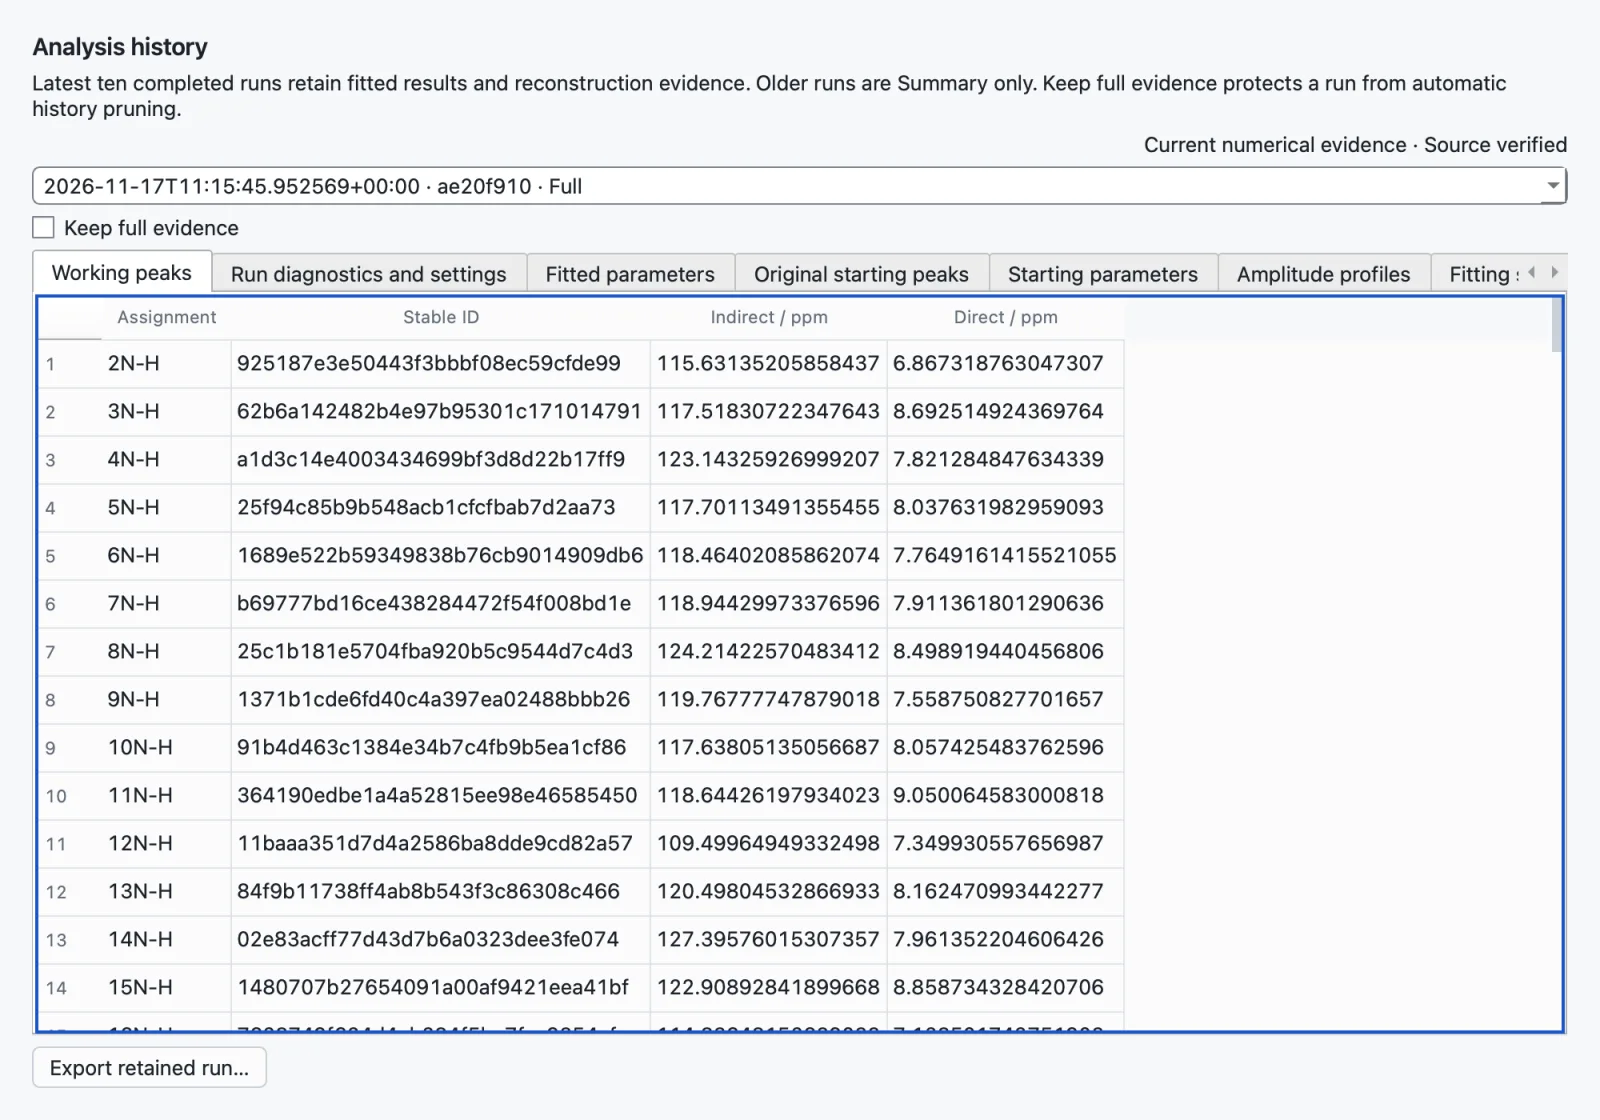
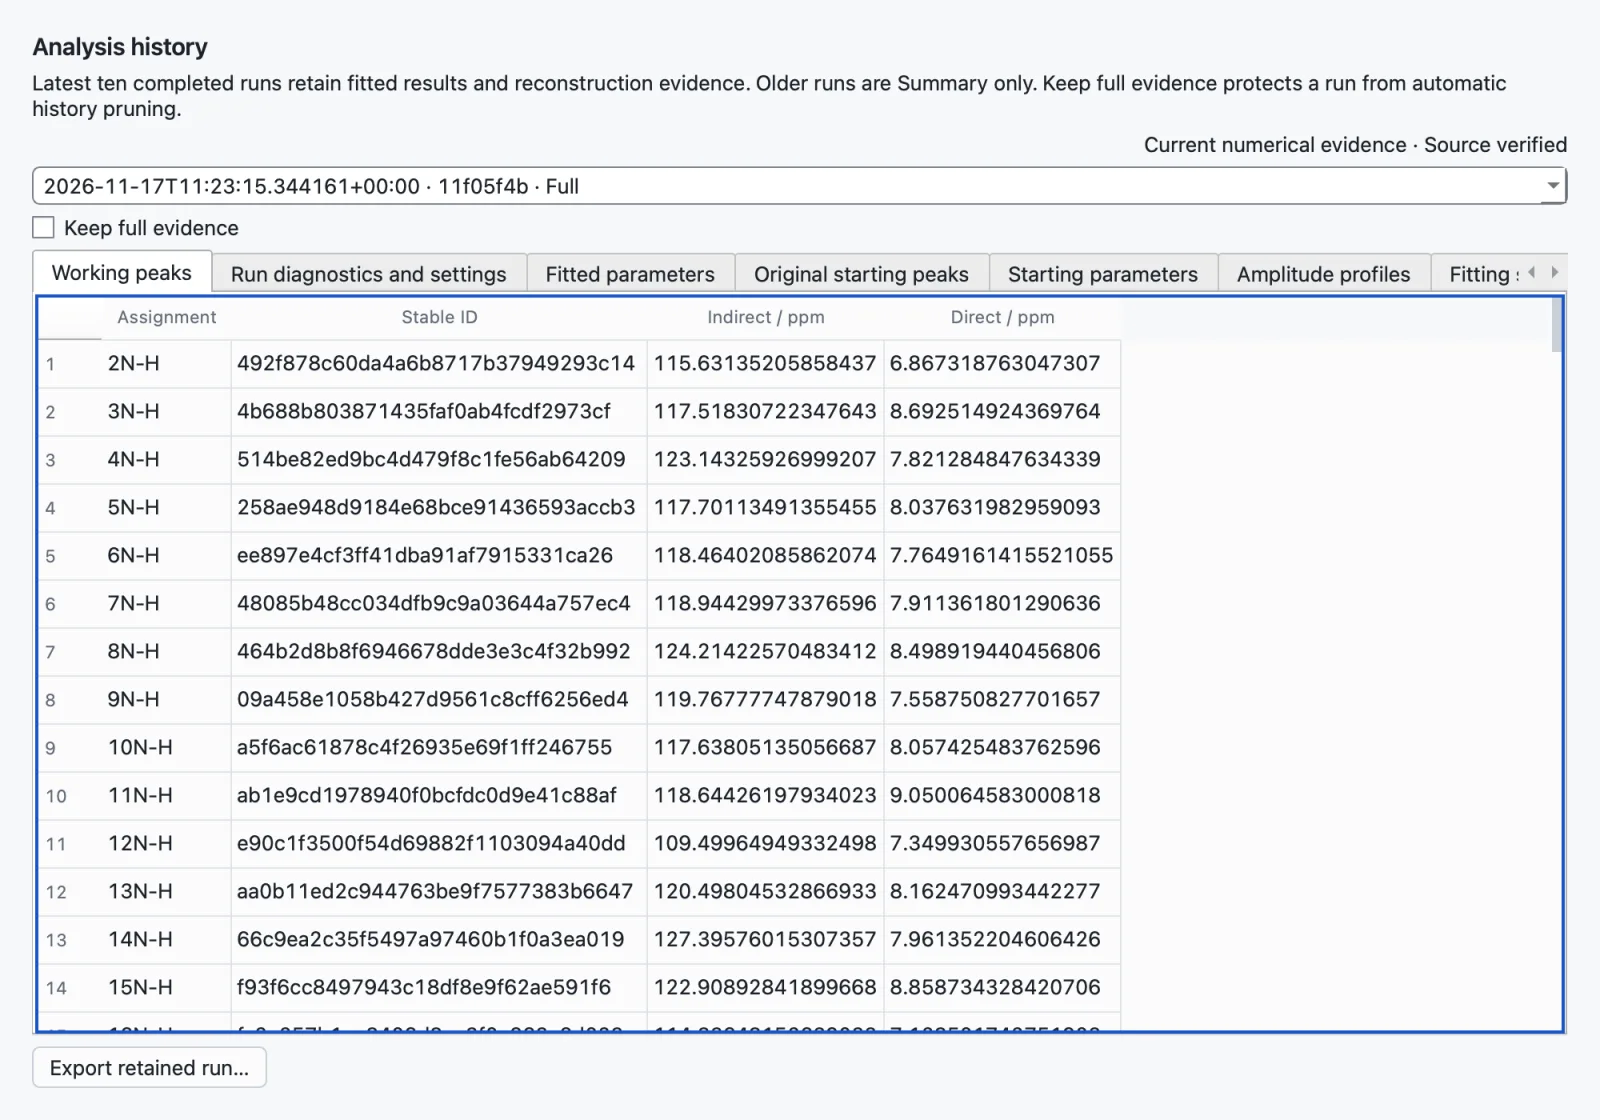
Review fixes: the capture tool writes WebP through QPixmap and re-records
QImage.save rejects the bytes format its stubs ask for, so the tool now saves
the grabbed QPixmap. Page heights and the setup position wait for a steady
layout, the dialog poll stops when no dialog opened, the watchdog is cancelled,
and every figure records its clipped labels. M13 keeps the label of a one-line
value; the record adds the dataset size, the screen and the type scale, so the
note's prose quotes no number outside it. Re-recorded natively at 6a5dc18 with
this tool; every measurement matches the first record except run IDs.

The note adds the review's small findings it had dropped, and
docs/development.md points to the tool.

diff --git a/tools/capture_gui_review.py b/tools/capture_gui_review.py
@@ -22,9 +22,11 @@ the note that quotes it.
 """
 
 import argparse
+import faulthandler
 import json
 import platform
 import subprocess
+from dataclasses import asdict
 from pathlib import Path
 from typing import Any
 
@@ -37,6 +39,7 @@ from validate_gui_layout import (
     ROOT,
     Session,
     arm_watchdog,
+    clipped_labels,
     peak_page_measures,
     steady,
     window_record,
@@ -44,11 +47,12 @@ from validate_gui_layout import (
 
 from peakfit.gui.editor.numerical import NumericalReview
 from peakfit.gui.failures import install_log
+from peakfit.gui.theme import type_scale
 
 SIZE = "1280x800"
 SIZES = ("1160x720", "1280x800", "1440x900", "1920x1080")
 PEAK = "53N-H"  # a two-member cluster's peak: the reviewed peak page
-MOVED = "22N-H"  # moved to make the run Outdated, then refitted
+MOVED = CLUSTER  # the four-member cluster's peak, moved to make the run Outdated
 MOVE_PPM = 0.02  # in the direct (¹H) dimension
 MAX_WIDTH = 1600  # px; wider grabs are downscaled, keeping the aspect ratio
 QUALITY = 82  # WebP
@@ -62,9 +66,9 @@ FIGURES = (
     "dialog-display.webp",
     "overview.webp",
     "page-analysis-unexplained.webp",
-    "peak-53N-H.webp",
-    "page-peak-53N-H.webp",
-    "page-cluster-22N-H.webp",
+    f"peak-{PEAK}.webp",
+    f"page-peak-{PEAK}.webp",
+    f"page-cluster-{CLUSTER}.webp",
     "focus-overlay.webp",
     "focus-residual-dark.webp",
     "profiles.webp",
@@ -73,6 +77,12 @@ FIGURES = (
     "outdated-peak.webp",
     "page-analysis-refit.webp",
 )
+
+
+def window_size(size: str) -> tuple[int, int]:
+    """Width and height of a ``WxH`` size."""
+    width, height = (int(v) for v in size.split("x"))
+    return width, height
 
 
 def git_state() -> dict[str, object]:
@@ -135,33 +145,37 @@ class ReviewSession(Session):
         self._save(name, widget or self.window)
 
     def _save(self, name: str, widget: QtWidgets.QWidget) -> None:
-        image = widget.grab().toImage()
-        if image.width() > MAX_WIDTH:
+        image = widget.grab()
+        if image.width() > MAX_WIDTH:  # device pixels
             image = image.scaledToWidth(
                 MAX_WIDTH, QtCore.Qt.TransformationMode.SmoothTransformation
             )
         file = f"{name}.webp"
-        if not image.save(str(self.output / file), b"WEBP", QUALITY):
+        if not image.save(str(self.output / file), "WEBP", QUALITY):
             raise RuntimeError(f"Qt could not write {file}; is the WebP image plugin installed?")
         self.figures[file] = {
             "window": window_record(self.window),
             "widget": [widget.width(), widget.height()],
             "image": [image.width(), image.height()],
+            "clipped": clipped_labels(self.window),
         }
         arm_watchdog(self.stall)
 
     def page(self, name: str) -> int:
         """Save the inspector's whole scrolling page; its height in logical px."""
-        settle(300)
         body = self.w.panel.widget()
+        height = steady(body.height)  # deferred rows can still be growing the page
         self.figure(name, body)
-        return body.height()
+        return height
 
     def dialog(self, name: str, show, ready=lambda _dialog: True) -> list[int]:
         """Open a modal dialog with ``show``, save it once ``ready``, close it; its size."""
         size: list[int] = []
+        returned = False
 
         def poll() -> None:
+            if returned:  # ``show`` came back without a modal dialog
+                return
             dialog = QtWidgets.QApplication.activeModalWidget()
             if dialog is None or not ready(dialog):
                 QtCore.QTimer.singleShot(50, poll)
@@ -176,16 +190,17 @@ class ReviewSession(Session):
 
         QtCore.QTimer.singleShot(0, poll)
         show()
+        returned = True
         if not size:
             raise RuntimeError(f"No modal dialog was captured for {name}")
         return size
 
     def setup_top(self) -> int | None:
         """Where the fit setup starts on the analysis page, in inspector content px."""
-        block = self.w.panel.setup_block
+        block, body = self.w.panel.setup_block, self.w.panel.widget()
         if not block.isVisible():
             return None
-        return block.mapTo(self.w.panel.widget(), QtCore.QPoint(0, 0)).y()
+        return steady(lambda: block.mapTo(body, QtCore.QPoint(0, 0)).y())
 
     def noise_lines(self) -> list[int]:
         """Lines of each visible inspector label that contains the noise-check finding.
@@ -198,7 +213,7 @@ class ReviewSession(Session):
         return lines_of(self.w.panel.widget(), finding[1:60]) if finding else []
 
     def run_line(self) -> str:
-        """The toolbar's run summary."""
+        """The toolbar's run summary (the separate "Modified" label is not part of it)."""
         return self.w.summary.text()
 
 
@@ -218,6 +233,10 @@ def before_fit(s: ReviewSession, record: dict[str, Any]) -> None:
     w.show_fit_setup()
     wait_until(lambda: w.fitting.prepared is not None, timeout=120)
     s.figure("fit-setup")
+    record["dataset_size"] = {
+        "peaks": len(w.peaks),
+        "planes": int(w.dataset.spectra.data.shape[0]),
+    }
     record["preparation"] = w.panel.setup.preparation.text()
     w.panel.setup.advanced_toggle.setChecked(True)
     s.page("page-fit-setup")
@@ -322,8 +341,7 @@ def window_sizes(s: ReviewSession, record: dict[str, Any]) -> None:
     """The overview at each window size; the 1160×720 one is a figure."""
     w, sizes = s.w, []
     for size in SIZES:
-        width, height = (int(v) for v in size.split("x"))
-        s.window.resize(width, height)
+        s.window.resize(*window_size(size))
         settle(600)
         w.show_analysis_page()
         if size == "1160x720":
@@ -337,8 +355,9 @@ def window_sizes(s: ReviewSession, record: dict[str, Any]) -> None:
             }
         )
     record["sizes"] = sizes
-    width, height = (int(v) for v in SIZE.split("x"))
-    s.window.resize(width, height)
+    screen = s.window.screen().size()
+    record["screen"] = [screen.width(), screen.height()]
+    s.window.resize(*window_size(SIZE))
     settle(600)
 
 
@@ -371,8 +390,7 @@ def run(output: Path) -> dict[str, Any]:
     output.mkdir(parents=True, exist_ok=True)
     install_log(output / "peakfit.log")  # as launch does
     s = ReviewSession(output)
-    width, height = (int(v) for v in SIZE.split("x"))
-    s.window.resize(width, height)
+    s.window.resize(*window_size(SIZE))
     s.window.apply_appearance("Light")
     settle(300)
     states: dict[str, Any] = {}
@@ -382,8 +400,8 @@ def run(output: Path) -> dict[str, Any]:
     after_fit(s, states)
     window_sizes(s, states)
     outdated_and_refit(s, states)
-    missing = set(FIGURES) - set(s.figures)
-    assert not missing, f"figures not written: {sorted(missing)}"
+    faulthandler.cancel_dump_traceback_later()
+    assert set(s.figures) == set(FIGURES), sorted(set(s.figures) ^ set(FIGURES))
     record = {
         "tool": "tools/capture_gui_review.py",
         **git_state(),
@@ -391,6 +409,7 @@ def run(output: Path) -> dict[str, Any]:
         "platform": platform.platform(),
         "qt_platform": QtGui.QGuiApplication.platformName(),
         "units": "Qt logical pixels unless named; image sizes are file pixels",
+        "type_scale": asdict(type_scale()),
         **states,
         "figures": {name: s.figures[name] for name in FIGURES},
     }
@@ -414,10 +433,12 @@ def table(record: dict[str, Any]) -> str:
     unexplained, refit = record["unexplained"], record["refit"]
     strongest = unexplained["strongest"]
     where = ", ".join(f"{axis} {ppm}" for axis, ppm in strongest["ppm"].items())
-    # The changed cluster's review and measures; the full list is in the record.
+    # What changed between the runs; the full list is in the record. A one-line
+    # value follows its label, which is the text before it.
+    texts = refit["changes"]
     changes = " · ".join(
-        line
-        for text in refit["changes"]
+        f"{texts[index - 1]} {line}" if index and "\n" not in text else line
+        for index, text in enumerate(texts)
         for line in text.split("\n")
         if "now reported" in line or "→" in line
     )
@@ -427,7 +448,12 @@ def table(record: dict[str, Any]) -> str:
         for s in record["sizes"]
     )
     rows = [
-        ("M1", "Preparation before the first fit", record["preparation"]),
+        (
+            "M1",
+            "Dataset; preparation before the first fit",
+            f"{record['dataset_size']['peaks']} peaks · {record['dataset_size']['planes']} "
+            f"planes; {record['preparation']}",
+        ),
         ("M2", "Failed first fit: run line", record["failure"]["run_line"]),
         ("M3", "Run line after the fit", overview["run_line"]),
         (
@@ -479,6 +505,12 @@ def table(record: dict[str, Any]) -> str:
             f"{refit['page_height']}, {refit['setup_top']} / {refit['viewport_height']} px",
         ),
         ("M15", "Window sizes (logical): inspector width, overview plot", sizes),
+        ("M16", "Screen (logical)", _size(record["screen"])),
+        (
+            "M17",
+            "Type scale: body, small, caption",
+            "{body}, {small}, {caption} px".format(**record["type_scale"]),
+        ),
     ]
     lines = ["| | Measurement | Value |", "| --- | --- | --- |"]
     lines += [f"| {key} | {_cell(name)} | {_cell(value)} |" for key, name, value in rows]

diff --git a/tests/test_gui_product_review_record.py b/tests/test_gui_product_review_record.py
@@ -64,7 +64,7 @@ def test_the_note_quotes_the_record(tool, record, note) -> None:
 
 def test_the_note_cites_every_kept_figure_and_nothing_else(tool, record, note) -> None:
     cited = set(re.findall(r"\(gui-product-review/([\w.-]+\.webp)\)", note))
-    kept = {path.name for path in FOLDER.iterdir()}
+    kept = {path.name for path in FOLDER.iterdir() if not path.name.startswith(".")}
     assert cited == set(tool.FIGURES)
     assert kept == {*tool.FIGURES, RECORD.name}
     assert list(record["figures"]) == list(tool.FIGURES)

diff --git a/docs/validation/gui-product-review.md b/docs/validation/gui-product-review.md
@@ -15,7 +15,7 @@ Figures are cited as Fig. N and measurements as Mn; both are listed at the end.
   `docs/gui-design.md`, `GLOSSARY.md`, spec #178 and the
   [audit follow-up validation](gui-audit-followup.md).
 - **Driving the real window** on the bundled `02-advanced-fitting` CEST dataset
-  (166 peaks, 131 planes) with `tools/validate_gui_layout.py` and a script on its
+  (M1) with `tools/validate_gui_layout.py` and a script on its
   `Session`, now `tools/capture_gui_review.py`. The states: the fit setup, a
   simulated failed first fit, the GUI's own two-pass fit, the overview, peak and
   cluster pages, cluster focus in Overlay and Residual, Profiles, the
@@ -28,9 +28,9 @@ Figures are cited as Fig. N and measurements as Mn; both are listed at the end.
 **Evidence.** [gui-product-review/](gui-product-review/) holds the cited figures
 and `measurements.json`. `tools/capture_gui_review.py` wrote them in one run at
 `6a5dc18` on a native macOS window: Cocoa, DPR 2.0, Apple silicon, one built-in
-display 982 logical px tall. That run repeats the review session's states, so
-run IDs differ from the ones the review saw. The display caps the window's height,
-so the 1920×1080 window has the recorded height in M15. Sizes are Qt logical
+display (M16). That run repeats the review session's states, so run IDs differ
+from the ones the review saw. The display caps the window's height, so the
+1920×1080 window has the recorded height in M15. Sizes are Qt logical
 pixels; inspector positions are in its content coordinates, as in the audit
 follow-up.
 
@@ -146,19 +146,25 @@ follow-up.
 - **One quantity, two encodings.** Residual contours and lanes are vermilion and
   teal. Residual-mode slices draw the same residual in the neutral foreground
   (Fig. 12).
-- **The corner readout is noisy:** six significant figures and mixed exponents
-  over four lines, floating over the slice corner (Fig. 6).
+- **The corner readout is noisy:** full precision and mixed exponents over several
+  lines, floating over the slice corner (Fig. 6).
 - **Peak and cluster pages disagree.** The section is "Cluster review" on one and
   "Review" on the other, with different rows. The members table lacks amplitude ±
   σ, the main result (Fig. 10).
-- **Small defects:** "▲ 1 clusters"; the legend breaks a name mid-word; Profiles
-  tile headers truncate measures that the list beside them already shows; fit times
-  are in UTC.
+- **The peak page repeats itself** (Fig. 8). After a fit its three full-width edit
+  fields repeat the fitted position at lower precision, and the profile note takes
+  three lines for the bars' meaning, the noise check and off-scale points.
+- **Small defects:** "▲ 1 clusters"; the legend breaks a name mid-word and leaves
+  its negative entry unnamed; Profiles tile headers truncate measures that the list
+  beside them already shows; fit times are in UTC; the comparison selector changes
+  width when a checked button turns bold; the status strip stays empty at 1280 px
+  and wider.
 
 **Information architecture and naming**
 
-- **The run line is a sentence of five states** (M3, Fig. 6). "Modified" follows
-  every fit, because the run is unsaved, which dilutes the word.
+- **The run line strings several states into one sentence** (M3, Fig. 6). The
+  "Modified" label before it follows every fit, because the run is unsaved, which
+  dilutes the word.
 - **Unexplained signal is valuable and buried** (M11, Fig. 7). The strongest
   regions are most likely unpicked side-chain NH₂ peaks: the most actionable finding
   a fit produces. The inspector lists a few of them. There is no way to see the
@@ -184,13 +190,13 @@ follow-up.
   N/Shift+N, [ ], Save and Escape to leave focus, and writes "Cmd/Ctrl" instead of
   the platform's glyphs.
 - **The toolbar changes shape** with mode and width. Profiles hides the comparison
-  and canvas tools, so Fit and the chip shift left. Below 1200 px the chip becomes
-  "Fit settings".
+  and canvas tools, so Fit and the chip shift left. In a narrow window the chip
+  becomes "Fit settings" (`gui/editor/workspace.py:486`).
 - **The inspector's measure is narrow for prose and does not grow.** Extra window
   width goes to the spectrum (M15, Fig. 14).
 - **Qualifiers that change a value's meaning** ("conditional on lineshapes", "not
-  established") use the 11 px caption style. The 13 px body follows the macOS
-  system font and suits a dense desktop tool.
+  established") use the caption style, the smallest size (M17). The body size
+  follows the macOS system font and suits a dense desktop tool.
 
 ## Feature inventory: what the GUI cannot reach
 
@@ -240,9 +246,9 @@ label at the inspector's width.
 
 | | Measurement | Value |
 | --- | --- | --- |
-| M1 | Preparation before the first fit | 121 clusters · 6 158 samples per plane |
+| M1 | Dataset; preparation before the first fit | 166 peaks · 131 planes; 121 clusters · 6 158 samples per plane |
 | M2 | Failed first fit: run line | ▲ Failed · no result yet |
-| M3 | Run line after the fit | Run ae20f910 · Current · ▲ Noise check (F2) · all 121 clusters usable |
+| M3 | Run line after the fit | Run 11f05f4b · Current · ▲ Noise check (F2) · all 121 clusters usable |
 | M4 | Fit setup top / inspector viewport, after the fit | 626 / 687 px |
 | M5 | Lines of the labels with the noise-check finding: Analysis, peak, cluster page | 18, 37, 39 |
 | M6 | 53N-H Fitted table top, bottom / viewport | 616, 724 / 687 px |
@@ -251,10 +257,12 @@ label at the inspector's width.
 | M9 | Whole pages, disclosures open: peak 53N-H, cluster 22N-H | 1989, 1916 px |
 | M10 | Focus 22N-H: 2D plot, Overlay → Residual | 384×350 → 428×394 |
 | M11 | Unexplained signal on plane 1: regions, rows listed, strongest (σ_stat, ppm) | 125, 8, +33.2 at F3 7.593, F2 111.79 |
-| M12 | Run line after moving 22N-H | Run ae20f910 · Outdated · ▲ Noise check (F2) · all 121 clusters usable |
-| M13 | Changes from parent run after the refit | ▲ Near-collinear shapes now reported · ▲ Uncertainty unreliable now reported · ◇ Amplitude correlation now reported · ◇ Linewidth outlier now reported · χ²ᵣ 3.04 → 5.04 · \|r\|max 9.2 → 10.7 σ · \|ρ\| 0.41 → 1.00 · 0 → 1 |
+| M12 | Run line after moving 22N-H | Run 11f05f4b · Outdated · ▲ Noise check (F2) · all 121 clusters usable |
+| M13 | Changes from parent run after the refit | ▲ Near-collinear shapes now reported · ▲ Uncertainty unreliable now reported · ◇ Amplitude correlation now reported · ◇ Linewidth outlier now reported · χ²ᵣ 3.04 → 5.04 · \|r\|max 9.2 → 10.7 σ · \|ρ\| 0.41 → 1.00 · With ▲ warnings 0 → 1 |
 | M14 | After the refit: Analysis page height, fit setup top / viewport | 1349, 1063 / 687 px |
 | M15 | Window sizes (logical): inspector width, overview plot | 1160×720: inspector 314, plot 394×404; 1280×800: inspector 320, plot 482×468; 1440×900: inspector 320, plot 614×546; 1920×921: inspector 320, plot 1008×562 |
+| M16 | Screen (logical) | 1512×982 |
+| M17 | Type scale: body, small, caption | 13, 12, 11 px |
 
 ## Figures
 

diff --git a/docs/development.md b/docs/development.md
@@ -182,6 +182,10 @@ bundled dataset and offers `fit()`, `capture()` and `each()`. Create the
 script, so without the guard the first fit fails with "Dataset fit worker exited
 with code 1".
 
+`tools/capture_gui_review.py` is such a script: it regenerates the figures and
+`measurements.json` of the [GUI product review](validation/gui-product-review.md),
+whose test checks that the note quotes the record.
+
 ### Native input checks
 
 Qt test events bypass the native event path, so keyboard and context-menu behavior
